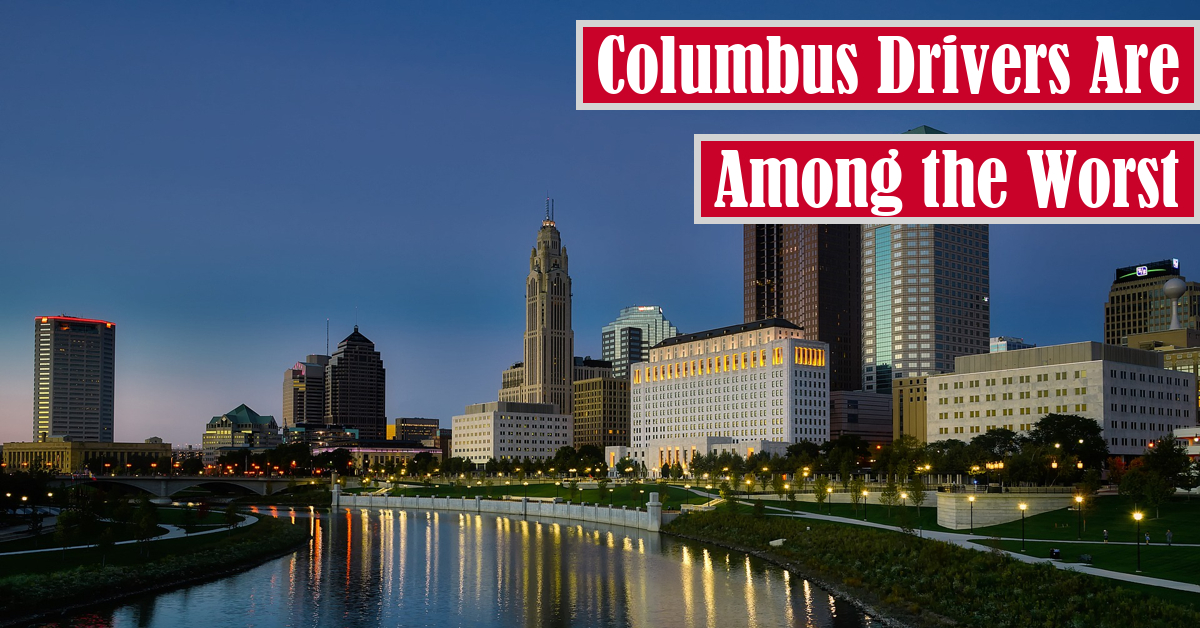
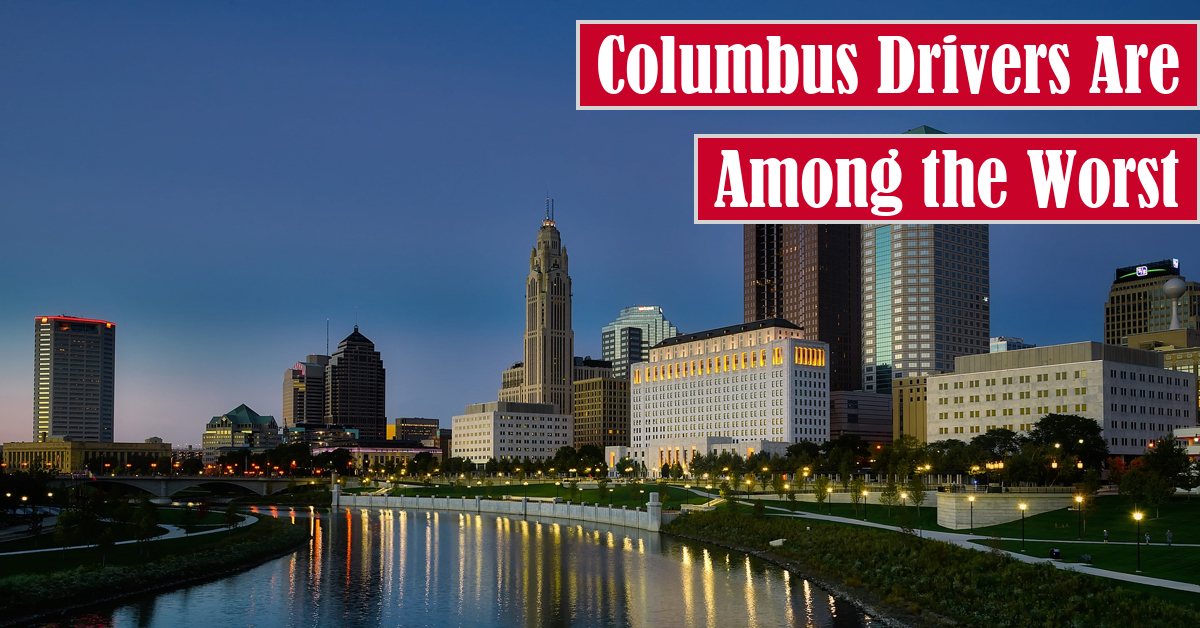
Fixed border color thickness

Changed region(s): [[0.4933, 0.0303, 1.0, 0.1815], [0.5858, 0.2118, 1.0, 0.3631]]

diff --git a/imagetitler/draw.py b/imagetitler/draw.py
@@ -164,7 +164,7 @@ def _draw_rectangle(
         ),
         fill=color,
         outline=TIER_MAP.get(kwargs.get(KEY_TIER), None),
-        width=7
+        width=4
     )
 
 
